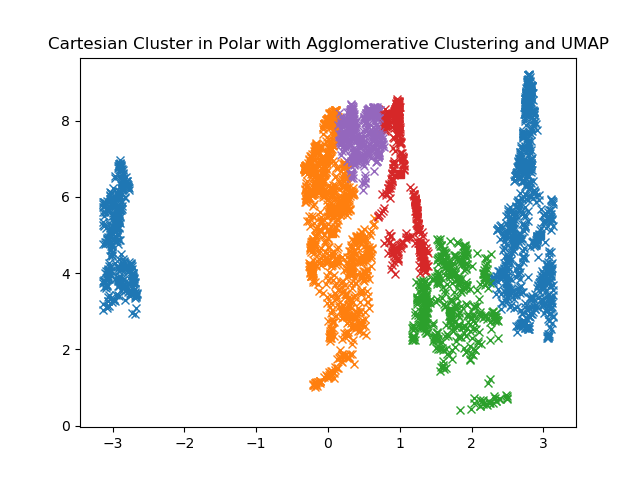
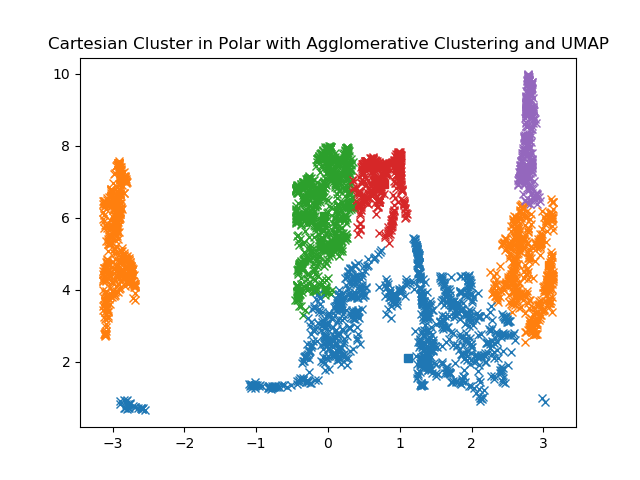
segmaps and first try of affinity propagation

diff --git a/pyscript/clustering.py b/pyscript/clustering.py
@@ -81,6 +81,7 @@ def unit_cicle_color_wheel(embedding, polar_embedding):
     plt.imshow(colors[:,None])
     plt.show()
     '''
+    plt.show()
 
 colors = {0: "tab:blue", 1: "tab:orange", 2: "tab:green", 3: "tab:red", 4: "tab:purple", 5: "tab:brown", 6: "tab:pink", 7: "tab:gray", 8: "tab:olive", 9:"tab:cyan"}
 
@@ -98,6 +99,8 @@ def kmeans_clustering(embed, polEmbedding, method):
     pltFigure(embed, polEmbedding, e_labels, e_proto, pe_labels, pe_proto, 'KMeans', method)
     plt_cluster_img(h5data, e_labels, 'Cartesian', 'KMEANS')
     plt_cluster_img(h5data, pe_labels, 'Polar', 'KMEANS')
+    unit_cicle_color_wheel(e_proto, np.array(cart2polar(e_proto[:,0], e_proto[:,1])).T)
+    unit_cicle_color_wheel(np.array(polar2cart(pe_proto[:,0], pe_proto[:,1])).T, pe_proto)
 
 def agglomerative_clustering(embed, polarEmbed, method):
     num_obj = 5
@@ -130,15 +133,33 @@ def agglomerative_clustering(embed, polarEmbed, method):
     pltFigure(embed, polarEmbed, e_labels, e_proto, pe_labels, pe_proto, 'Agglomerative Clustering', method)
     plt_cluster_img(h5data, e_labels, 'Cartesian', 'Agglomerative')
     plt_cluster_img(h5data, pe_labels, 'Polar', 'Agglomerative')
+    unit_cicle_color_wheel(e_proto, np.array(cart2polar(e_proto[:,0], e_proto[:,1])).T)
+    unit_cicle_color_wheel(np.array(polar2cart(pe_proto[:,0], pe_proto[:,1])).T, pe_proto)
+
+
 
 def affinity_propagation(embed, polarEmbed, method):
     e_affinity  = AffinityPropagation().fit(embed)
     e_labels = e_affinity.labels_
     e_proto = e_affinity.cluster_centers_
 
-    pe_affinity  = AffinityPropagation().fit(polarEmbed)
+    while len(e_proto) > 10:
+        e_affinity = AffinityPropagation().fit(e_proto)
+        e_proto = e_affinity.cluster_centers_
+        e_labels = e_affinity.labels_
+
+    print(e_proto.shape)
+
+    pe_affinity  = AffinityPropagation(damping=0.95).fit(polarEmbed)
     pe_labels = pe_affinity.labels_
     pe_proto = pe_affinity.cluster_centers_
+    while len(pe_proto) > 10:
+        pe_affinity = AffinityPropagation().fit(pe_proto)
+        pe_proto = pe_affinity.cluster_centers_
+        pe_labels - pe_affinity.labels_
+
+    print(pe_proto.shape)
+
 
     pltFigure(embed, polarEmbed, e_labels, e_proto, pe_labels, pe_proto, 'Affinity Propagation', method)
 
@@ -188,9 +209,9 @@ def pltFigure(embe, pEmbe, labels, proto, pLabels, pProto, clustering, method):
     plt.savefig('Polare_in_cartesien_' + clustering + '_' + method + '.png')
     plt.close(fig)
 
-'''
-unit_cicle_color_wheel(embedding, polar_embedding)
 
+#unit_cicle_color_wheel(pcaEmbedding, pcaPolar_embedding)
+'''
 print("----------------")
 
 unit_cicle_color_wheel(e_proto, np.array(cart2polar(e_proto[:,0], e_proto[:,1])).T)
@@ -201,12 +222,13 @@ unit_cicle_color_wheel(np.array(polar2cart(pe_proto[:,0], pe_proto[:,1])).T, pe_
 
 '''
 
-kmeans_clustering(umapEmbedding, umapPolar_embedding, 'UMAP')
-kmeans_clustering(pcaEmbedding, pcaPolar_embedding, 'PCA')
-print('KMEANS is ready')
-agglomerative_clustering(pcaEmbedding, pcaPolar_embedding, 'PCA')
-agglomerative_clustering(umapEmbedding, umapPolar_embedding, 'UMAP')
-print('Agglomerative Clustering is ready')
+#kmeans_clustering(umapEmbedding, umapPolar_embedding, 'UMAP')
+#kmeans_clustering(pcaEmbedding, pcaPolar_embedding, 'PCA')
+#print('KMEANS is ready')
+#agglomerative_clustering(pcaEmbedding, pcaPolar_embedding, 'PCA')
+#agglomerative_clustering(umapEmbedding, umapPolar_embedding, 'UMAP')
+#print('Agglomerative Clustering is ready')
+#Fuck you affinity_propagation i will find u and then i will kill u 
 #affinity_propagation(pcaEmbedding, pcaPolar_embedding, 'PCA')
 #affinity_propagation(umapEmbedding, umapPolar_embedding, 'UMAP')
 #print('Affinity Propagation is ready')
